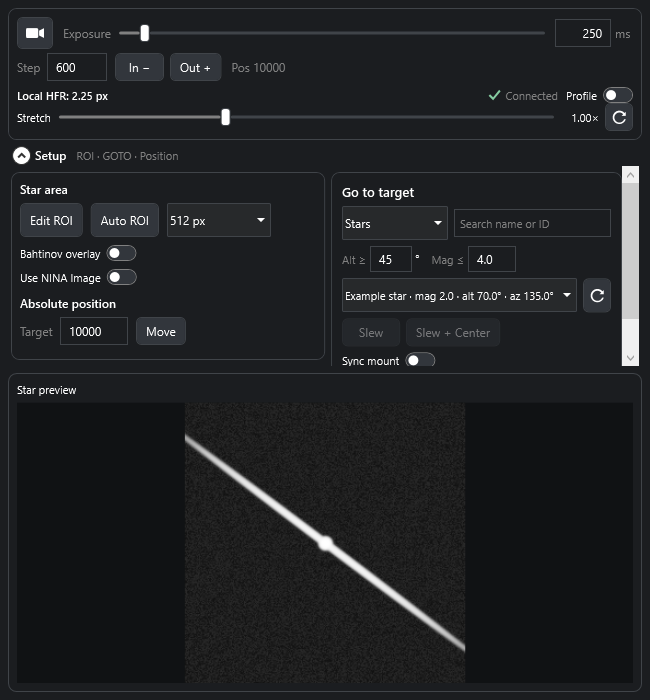
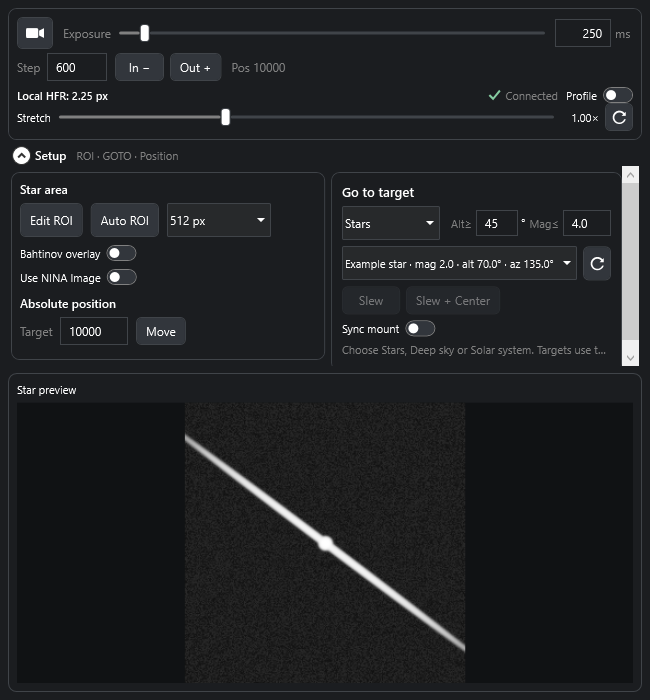
Replace star name search with inline altitude and magnitude filters

Changed region(s): [[0.5231, 0.3, 0.9538, 0.54], [0.9538, 0.45, 0.9846, 0.51]]

diff --git a/Dockables/LiveFocusDockableView.xaml b/Dockables/LiveFocusDockableView.xaml
@@ -316,8 +316,8 @@
             <Border x:Name="StarSetupCard" Grid.Row="1" Style="{StaticResource FocusCard}" Padding="10">
               <StackPanel>
                 <TextBlock Text="Go to target" FontWeight="SemiBold" FontSize="13" Margin="0,0,0,6" />
-                <Grid Margin="0,0,0,6">
-                  <Grid.ColumnDefinitions><ColumnDefinition Width="112" /><ColumnDefinition Width="*" /></Grid.ColumnDefinitions>
+                <Grid x:Name="TargetCriteriaRow" Margin="0,0,0,6">
+                  <Grid.ColumnDefinitions><ColumnDefinition Width="104" /><ColumnDefinition Width="*" /></Grid.ColumnDefinitions>
                   <ComboBox x:Name="TargetCategoryPicker" ItemsSource="{Binding TargetKinds}" SelectedItem="{Binding SelectedTargetKind, Mode=TwoWay}" IsEnabled="{Binding CanEditTargets}" MinHeight="28" Margin="0,0,6,0" AutomationProperties.Name="Target category">
                     <ComboBox.ItemTemplate><DataTemplate><TextBlock>
                       <TextBlock.Style><Style TargetType="TextBlock">
@@ -329,25 +329,26 @@
                       </Style></TextBlock.Style>
                     </TextBlock></DataTemplate></ComboBox.ItemTemplate>
                   </ComboBox>
-                  <Grid Grid.Column="1">
+                  <Grid x:Name="TargetSearchPanel" Grid.Column="1">
+                    <Grid.Style><Style TargetType="Grid"><Setter Property="Visibility" Value="Visible" /><Style.Triggers><DataTrigger Binding="{Binding IsStarTargetCategory}" Value="True"><Setter Property="Visibility" Value="Collapsed" /></DataTrigger></Style.Triggers></Style></Grid.Style>
                     <TextBox x:Name="TargetSearchInput" Text="{Binding FocusTargetQuery, Mode=TwoWay, UpdateSourceTrigger=PropertyChanged}" IsEnabled="{Binding CanEditTargets}" MinHeight="28" ToolTip="{Binding TargetSearchHint}" AutomationProperties.Name="Search target name or catalogue ID" />
                     <TextBlock Text="Search name or ID" IsHitTestVisible="False" Margin="6,0,2,0" VerticalAlignment="Center" FontSize="11" Foreground="{StaticResource SecondaryBrush}">
                       <TextBlock.Style><Style TargetType="TextBlock"><Setter Property="Visibility" Value="Collapsed" /><Style.Triggers><DataTrigger Binding="{Binding FocusTargetQuery}" Value=""><Setter Property="Visibility" Value="Visible" /></DataTrigger></Style.Triggers></Style></TextBlock.Style>
                     </TextBlock>
                   </Grid>
+                  <WrapPanel x:Name="StarFilterPanel" Grid.Column="1" VerticalAlignment="Center" HorizontalAlignment="Right">
+                    <WrapPanel.Style><Style TargetType="WrapPanel"><Setter Property="Visibility" Value="Collapsed" /><Style.Triggers><DataTrigger Binding="{Binding IsStarTargetCategory}" Value="True"><Setter Property="Visibility" Value="Visible" /></DataTrigger></Style.Triggers></Style></WrapPanel.Style>
+                    <StackPanel Orientation="Horizontal" Margin="0,0,4,0">
+                      <TextBlock Text="Alt≥" FontSize="11" Foreground="{StaticResource SecondaryBrush}" VerticalAlignment="Center" Margin="0,0,4,0" />
+                      <TextBox x:Name="MinimumAltitudeInput" Width="42" MinHeight="26" IsEnabled="{Binding CanEditTargets}" Text="{Binding MinimumFocusAltitude, UpdateSourceTrigger=LostFocus}" AutomationProperties.Name="Minimum star altitude" ToolTip="Minimum star altitude in degrees (15 to 85). Stars must also clear the profile horizon by 5°. The list updates after editing." />
+                      <TextBlock Text="°" VerticalAlignment="Center" Margin="3,0,0,0" />
+                    </StackPanel>
+                    <StackPanel Orientation="Horizontal">
+                      <TextBlock Text="Mag≤" FontSize="11" Foreground="{StaticResource SecondaryBrush}" VerticalAlignment="Center" Margin="0,0,4,0" />
+                      <TextBox x:Name="MaximumMagnitudeInput" Width="48" MinHeight="26" IsEnabled="{Binding CanEditTargets}" Text="{Binding MaximumFocusMagnitude, StringFormat=F1, UpdateSourceTrigger=LostFocus}" AutomationProperties.Name="Maximum star magnitude" ToolTip="Faintest allowed star magnitude (-2 to 20). Smaller numbers select brighter stars. The list updates after editing. Only NINA's bright-star catalogue is searched; this filter does not apply to deep sky or planets." />
+                    </StackPanel>
+                  </WrapPanel>
                 </Grid>
-                <WrapPanel Margin="0,0,0,6">
-                  <WrapPanel.Style><Style TargetType="WrapPanel"><Setter Property="Visibility" Value="Collapsed" /><Style.Triggers><DataTrigger Binding="{Binding IsStarTargetCategory}" Value="True"><Setter Property="Visibility" Value="Visible" /></DataTrigger></Style.Triggers></Style></WrapPanel.Style>
-                  <StackPanel Orientation="Horizontal" Margin="0,0,12,0">
-                    <TextBlock Text="Alt ≥" FontSize="11" Foreground="{StaticResource SecondaryBrush}" VerticalAlignment="Center" Margin="0,0,4,0" />
-                    <TextBox x:Name="MinimumAltitudeInput" Width="42" MinHeight="26" IsEnabled="{Binding CanEditTargets}" Text="{Binding MinimumFocusAltitude, UpdateSourceTrigger=LostFocus}" AutomationProperties.Name="Minimum star altitude" ToolTip="Minimum star altitude in degrees (15 to 85). Stars must also clear the profile horizon by 5°. The list updates after editing." />
-                    <TextBlock Text="°" VerticalAlignment="Center" Margin="3,0,0,0" />
-                  </StackPanel>
-                  <StackPanel Orientation="Horizontal">
-                    <TextBlock Text="Mag ≤" FontSize="11" Foreground="{StaticResource SecondaryBrush}" VerticalAlignment="Center" Margin="0,0,4,0" />
-                    <TextBox x:Name="MaximumMagnitudeInput" Width="48" MinHeight="26" IsEnabled="{Binding CanEditTargets}" Text="{Binding MaximumFocusMagnitude, StringFormat=F1, UpdateSourceTrigger=LostFocus}" AutomationProperties.Name="Maximum star magnitude" ToolTip="Faintest allowed star magnitude (-2 to 20). Smaller numbers select brighter stars. The list updates after editing. Only NINA's bright-star catalogue is searched; this filter does not apply to deep sky or planets." />
-                  </StackPanel>
-                </WrapPanel>
                 <Grid Margin="0,0,0,6">
                   <Grid.ColumnDefinitions>
                     <ColumnDefinition Width="*" />

diff --git a/Tools/FocusCenteringChecks/TargetPickerChecks.cs b/Tools/FocusCenteringChecks/TargetPickerChecks.cs
@@ -113,8 +113,8 @@ internal static class TargetPickerChecks
             Task<int> Pending() => (Task<int>)typeof(LiveFocusDockableVM).GetField("pendingTargetSearch", BindingFlags.NonPublic | BindingFlags.Instance).GetValue(vm);
             Task<int> Move(bool centerTarget) => (Task<int>)typeof(LiveFocusDockableVM).GetMethod(centerTarget ? "GotoFocusTargetAsync" : "SlewFocusTargetAsync", BindingFlags.NonPublic | BindingFlags.Instance).Invoke(vm, null);
             check(await vm.RefreshFocusTargetsAsync() == 1 && vm.FocusTargets.Single().Name == "Bright", "Stars retain both brightness and altitude filtering");
-            vm.FocusTargetQuery = "bRiGhT"; await Pending();
-            check(vm.FocusTargets.Single().Name == "Bright", "Star name search is case-insensitive");
+            vm.FocusTargetQuery = "no matching name"; await Pending();
+            check(vm.FocusTargetQuery == "" && vm.FocusTargets.Single().Name == "Bright", "Stars use altitude and magnitude without a hidden name-search filter");
             vm.SelectedTargetKind = FocusTargetKind.DeepSky; await Pending();
             check(vm.FocusTargetQuery == "" && vm.FocusTargets.Count == 3 && !vm.IsStarTargetCategory,
                 "Category changes clear stale search text; faint/unknown-magnitude and low DSO targets remain findable");
@@ -202,7 +202,7 @@ internal static class TargetPickerChecks
             var card = (FrameworkElement)view.FindName("StarSetupCard");
             var categoryBounds = category.TransformToAncestor(card).TransformBounds(new Rect(category.RenderSize));
             var searchBounds = search.TransformToAncestor(card).TransformBounds(new Rect(search.RenderSize));
-            check(category.Items.Count == 3 && category.ActualWidth >= 100 && search.ActualWidth >= 100 &&
+            check(category.Items.Count == 3 && category.ActualWidth >= 96 && search.ActualWidth >= 100 &&
                 categoryBounds.Right <= searchBounds.Left && searchBounds.Right <= card.ActualWidth,
                 "Category and search controls fit without overlap at width " + width);
             check(((TextBox)view.FindName("MaximumMagnitudeInput")).IsVisible == false &&
@@ -221,8 +221,9 @@ internal static class TargetPickerChecks
             await ((Task<int>)typeof(LiveFocusDockableVM).GetField("pendingTargetSearch", BindingFlags.NonPublic | BindingFlags.Instance).GetValue(vm));
             view.Dispatcher.Invoke(() => {}, DispatcherPriority.DataBind); view.UpdateLayout();
             var filters = (FrameworkElement)((FrameworkElement)((TextBox)view.FindName("MaximumMagnitudeInput")).Parent).Parent;
-            check(vm.SelectedTargetKind == kind && filters.Visibility == (kind == FocusTargetKind.Stars ? Visibility.Visible : Visibility.Collapsed),
-                kind + " category selection updates bindings and star filter visibility");
+            check(vm.SelectedTargetKind == kind && filters.Visibility == (kind == FocusTargetKind.Stars ? Visibility.Visible : Visibility.Collapsed) &&
+                ((FrameworkElement)view.FindName("TargetSearchPanel")).Visibility == (kind == FocusTargetKind.Stars ? Visibility.Collapsed : Visibility.Visible),
+                kind + " category switches the same criteria area between Alt/Mag and name search");
         }
         input.Text = "M31";
         await ((Task<int>)typeof(LiveFocusDockableVM).GetField("pendingTargetSearch", BindingFlags.NonPublic | BindingFlags.Instance).GetValue(vm));

diff --git a/Dockables/FocusTargets.cs b/Dockables/FocusTargets.cs
@@ -37,7 +37,7 @@ namespace Cwseo.NINA.LiveFocus.Dockables
         public bool IsSearchingTargets => refreshingFocusTargets;
         public string TargetSearchHint => SelectedTargetKind switch
         {
-            FocusTargetKind.Stars => "Search bright-star names. Altitude and magnitude filters apply to stars only.",
+            FocusTargetKind.Stars => "Choose a bright star using the altitude and magnitude filters. Smaller magnitude values select brighter stars.",
             FocusTargetKind.DeepSky => "Search NINA Sky Atlas by name or ID: M31, NGC 7000, IC 1805. Up to 100 matches; refine the search if needed.",
             _ => "Moon and planets; English or Korean names. Coordinates use the profile location and are refreshed just before Slew. Use Slew; plate solving does not center a planetary disk."
         };
@@ -58,7 +58,7 @@ namespace Cwseo.NINA.LiveFocus.Dockables
             get => focusTargetQuery;
             set
             {
-                if (!CanEditTargets || focusTargetQuery == (value ?? "")) return;
+                if (!CanEditTargets || IsStarTargetCategory || focusTargetQuery == (value ?? "")) return;
                 focusTargetQuery = value ?? ""; RaisePropertyChanged(); QueueTargetSearch(true);
             }
         }
@@ -213,7 +213,7 @@ namespace Cwseo.NINA.LiveFocus.Dockables
             targetSearchCts = request;
             long version = ++targetSearchVersion;
             var kind = SelectedTargetKind;
-            string query = FocusTargetQuery;
+            string query = IsStarTargetCategory ? "" : FocusTargetQuery;
             string selectedId = SelectedFocusTarget?.Id ?? SelectedFocusTarget?.Name ?? rememberedTargetId;
             double altitude = MinimumFocusAltitude, magnitude = MaximumFocusMagnitude;
             var site = focusProfileService.ActiveProfile.AstrometrySettings;

diff --git a/Tools/FocusCenteringChecks/PreviewLayoutChecks.cs b/Tools/FocusCenteringChecks/PreviewLayoutChecks.cs
@@ -138,6 +138,13 @@ internal static partial class PreviewDisplayChecks {
             var magnitudeBounds=magnitudeInput.TransformToAncestor(starCard).TransformBounds(new Rect(magnitudeInput.RenderSize));
             check(altitudeInput.ActualWidth>=40 && magnitudeInput.ActualWidth>=48 && magnitudeBounds.Left>=0 && magnitudeBounds.Right<=starCard.ActualWidth,
                 "Altitude and magnitude filters fit together in compact star setup at "+label);
+            var category=(ComboBox)view.FindName("TargetCategoryPicker");
+            var categoryBounds=category.TransformToAncestor(starCard).TransformBounds(new Rect(category.RenderSize));
+            var altitudeBounds=altitudeInput.TransformToAncestor(starCard).TransformBounds(new Rect(altitudeInput.RenderSize));
+            check(((FrameworkElement)view.FindName("TargetSearchPanel")).Visibility==Visibility.Collapsed &&
+                altitudeBounds.Left>=categoryBounds.Right && Math.Abs(altitudeBounds.Top-magnitudeBounds.Top)<2 &&
+                Math.Abs(categoryBounds.Top+categoryBounds.Height/2-altitudeBounds.Top-altitudeBounds.Height/2)<2,
+                "Stars show Alt and Mag on the category row in place of name search at "+label);
             check(width<616 ? starCard.TranslatePoint(new Point(),view).Y>=roiCard.TranslatePoint(new Point(),view).Y+roiCard.ActualHeight
                 : starCard.TranslatePoint(new Point(),view).X>=roiCard.TranslatePoint(new Point(),view).X+roiCard.ActualWidth,
                 "ROI and star setup cards do not overlap on initial layout or resizing at "+label);

diff --git a/README.md b/README.md
@@ -20,7 +20,7 @@ ROI editing uses the main Image panel when it is visible; **Retake / Done** rema
 
 - Absolute focuser position, adjustable In / Out steps and cancellation.
 - Bright-star selection from NINA's catalogue, with adjustable minimum altitude and maximum magnitude, plus profile horizon clearance. Every matching star is listed; there is no 20-star cap.
-- A shared **Stars / Deep sky / Solar system** target picker with asynchronous name/ID search. Deep sky uses NINA's local Sky Atlas; Moon/planet coordinates use NINA's native ephemeris and the profile's observer location.
+- A shared **Stars / Deep sky / Solar system** target picker. Stars use altitude/magnitude filters; deep sky and solar system use asynchronous name/ID search. Deep sky uses NINA's local Sky Atlas; Moon/planet coordinates use NINA's native ephemeris and the profile's observer location.
 - Separate **Slew** (coordinates only) and **Slew + Center** (NINA's configured plate solver) buttons. Active guiding is stopped before either move; disconnected, stopped, looping and selected guiders need no stop request. Guiding is not automatically restarted.
 - A **Sync mount** toggle beside the target actions directly controls NINA's existing profile **No Sync** setting, with the value inverted. There is no separate overriding setting.
 - Live ROI preview, ROI HFR in the native HFR History panel and an optional local star intensity profile. On streaming cameras, preview continues during focuser movement.
@@ -72,7 +72,7 @@ NINA supplies its own libraries; do not copy every dependency from the build dir
 
 ## Using it
 
-1. Connect the camera and focuser. Open **Setup → Go to target** to choose **Stars**, **Deep sky** or **Solar system**, search and select a target, then use **Slew** or **Slew + Center**. For stars, **Alt ≥** defaults to 45° and **Mag ≤** to 4.0. Smaller magnitude limits select brighter stars; larger limits include fainter stars. Search and filter edits update the list automatically; the refresh icon recalculates current visibility. A star must also clear the profile horizon by 5°. Remove a Bahtinov mask for plate solving. Moon/planets use **Slew**.
+1. Connect the camera and focuser. Open **Setup → Go to target** to choose **Stars**, **Deep sky** or **Solar system**, filter or search and select a target, then use **Slew** or **Slew + Center**. For stars, the category row shows **Alt ≥** defaults to 45° and **Mag ≤** to 4.0. Smaller magnitude limits select brighter stars; larger limits include fainter stars. Search and filter edits update the list automatically; the refresh icon recalculates current visibility. A star must also clear the profile horizon by 5°. Remove a Bahtinov mask for plate solving. Moon/planets use **Slew**.
 2. Open NINA's **Image** panel. In Setup, choose **Edit ROI**, edit the yellow box directly in Image, then use **Done** in Live Focus. Zoom, scroll, rotation and flip keep the ROI in sensor coordinates. With Image closed, use the temporary local editor. **Auto ROI** is an alternative near the target star. Enable Bahtinov overlay here when using a mask.
 3. Fold Setup, open NINA's **Image** panel, set exposure and press the video icon to start. Use In / Out to adjust focus while viewing the star and local HFR. Open NINA's **HFR History** panel to see live ROI measurements automatically. Movement Stop and target-move cancellation remain available with Setup folded.
 4. Adjust Stretch if the preview is too bright. Stop preview before changing exposure or ROI.
@@ -91,9 +91,9 @@ The star picker uses NINA's existing bright-star catalogue. Increasing the magni
 
 ## Target search
 
-**Setup → Go to target** shares one search box, target list and movement controls across three categories. Setup remains folded by default to preserve image space. [Target picker layout, rendered with synthetic data](docs/live-focus-target-search.png).
+**Setup → Go to target** shares a target list and movement controls across three categories. The category row shows **Alt / Mag** for Stars and a **name/ID search** box for Deep sky or Solar system. Setup remains folded by default to preserve image space. [Target picker layout, rendered with synthetic data](docs/live-focus-target-search.png).
 
-- **Stars:** search NINA's bright-star catalogue case-insensitively, with the existing altitude/magnitude and horizon filters.
+- **Stars:** choose from NINA's bright-star catalogue using altitude/magnitude and horizon filters. There is no name search or hidden name filter; Alt and Mag sit beside the category selector.
 - **Deep sky:** search NINA's local Sky Atlas catalogue by common name or M/NGC/IC identifier; spaces and leading zeroes in these IDs are accepted. Catalogue aliases are searched; results show a matching name, current altitude and available magnitude. Up to 100 catalogue matches are shown; refine the search when the limit is reached. Star altitude/magnitude filters do not apply.
 - **Solar system:** list the Moon, Mercury, Venus, Mars, Jupiter, Saturn, Uranus and Neptune. English and Korean names are searchable. Calculate topocentric coordinates using NINA's NOVAS/JPL ephemeris, UTC converted to terrestrial time with SOFA, and the profile latitude/longitude/elevation. Recalculate after guider preparation, immediately before slewing. **Slew + Center** is disabled for these targets: stellar plate solving centers a coordinate field, not the visible lunar or planetary disk. The plugin does not change the mount's tracking rate.
 
